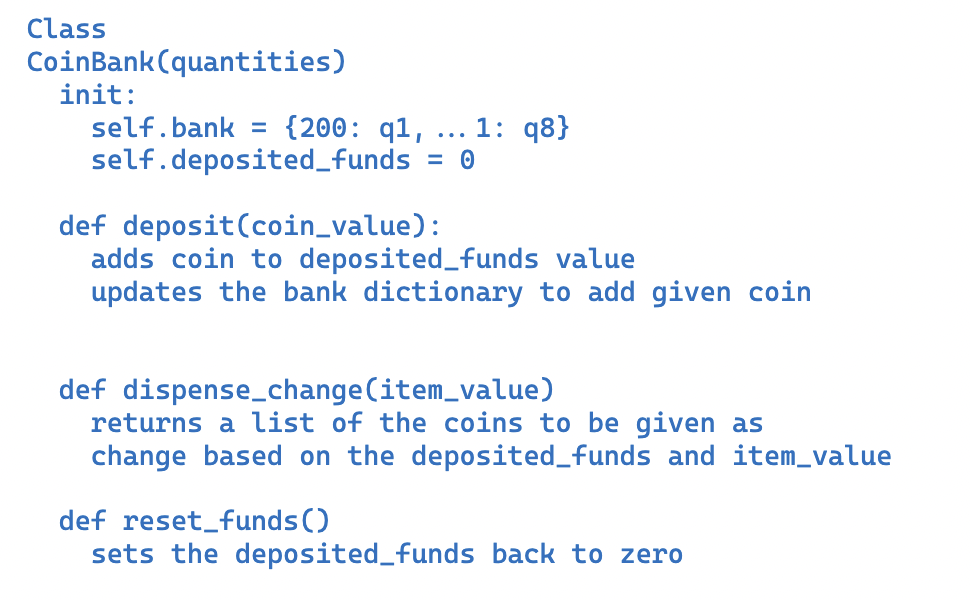
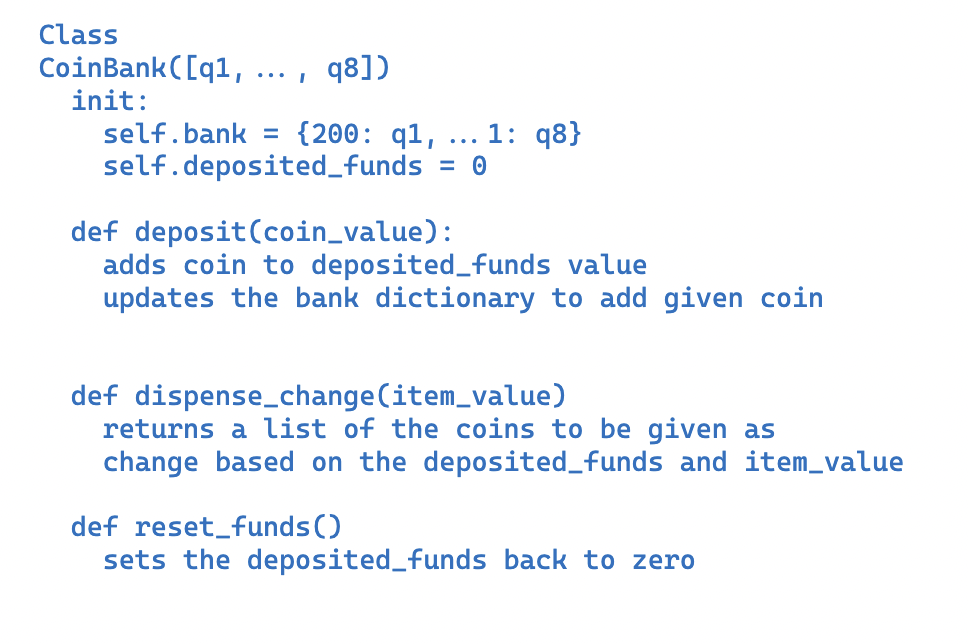
adding testing to readme

diff --git a/README.md b/README.md
@@ -4,14 +4,15 @@
 This API is to be used in conjunction with vending machine software in order to track the coins inside the machine. It is to be set initially with the quantities of each coin denomination which are loaded into the machine and will then update these quantities as the user makes deposits and purchases.
 
 ## Design
-My prrogram structure includes just one class, since we are only handling the behaviour change of the quantities of coins inside the machine. This is all kept inside the CoinBank class.
-Instances of CoinBank are initialised with a list of quantities of coin denominations (£2, £1, 50p, 20p, 10p, 5p, 2p, 1p) and also the value of coins deposited by a user. So the input parameter is a python list with 8 integers, and the deposited funds is initially set to zero. The coins inside the machine are stored in a class variable called self.bank, which is a dictionary with coin values (in pence) as keys and their quantities as values. This allows us to handily keep track of and update the quantity of each denomination and also use their monetary value for calculations. Below is an initial plan of the class definition:
+My program structure includes just one class, since we are only handling the behaviour of changing quantities of coins inside the machine. This is all kept inside the CoinBank class.
+Instances of CoinBank are initialised with a list of quantities of coin denominations (£2 ... 1p) and also the value of coins deposited by a user.
+So the input parameter is a python list with 8 integers, and the deposited funds is initially set to zero. The coins inside the machine are stored in a class variable called self.bank, which is a dictionary with coin values (in pence) as keys and their quantities as values. This allows us to handily keep track of and update the quantity of each denomination and also use their monetary value for calculations. Below is an initial plan of the class definition:
 
-![Screenshot of initial class design](./images/screenshot-class-design.png)
+![Screenshot of initial class design](./images/screenshot-class-sesign.png)
 
 There are three main methods on the CoinBank class:
 
-**deposit:** This method allows users to deposit coins, one by one, into the machine and they will be added to the coin bank. I've made the assumption that coins the user deposits are available for the machine to dispense as change, so the method updates the bank dictionary.
+**deposit:** This method allows users to deposit coins, one by one, into the machine and they are be added to the coin bank. The bank dictionary is therefore updated based on the coin which is passed into this method as a parameter.
 
 **dispense_change:** This method takes one parameter (the item's value to be purchased) and calculates the coins required as change based on the current funds deposited and the coin quantities in the bank dictionary. The bank dictionary is updated as required (coins returned as change are removed from the bank) and the method returns a list of the coins to be given to a user.
 
@@ -21,7 +22,8 @@ There are three main methods on the CoinBank class:
 These decisions have been made when implementing the API:
 - I have used pence for the coin values (i.e £1 = 100, 50p = 50) to remove all risk of float rounding errors in calculations.
 - I have only allowed the deposit method to take one parameter (i.e, one coin) since the vending machine will only have one coin inputted at a time.
-- I have kept reset_funds in a seperate method in order to ensure that dispense_change *only* handles the behaviour of finding the change. We could also imagine a scenario in which the funds are incorrect due to a fault with another part of the vending machine, and it must be reset back to zero manually.
+- Based on the given requirements (the program must 'register coins that have been deposited'), I've made the assumption that coins the user deposits are available for the machine to dispense as change, as opposed to just going into a seperate pile of change in the machine.
+- I have kept reset_funds in a seperate method in order to ensure that dispense_change *only* handles the behaviour of finding the change (and not returning funds to zero). We could also imagine a scenario in which the funds are incorrect due to a fault with another part of the vending machine, and it must be reset back to zero manually.
 - The deposited funds is just stored as the total value of coins deposited so far, since for this exercise we only require the total value in order to calculate the change.
 - The dispense_change return value is a list of the coin values, as this can be easily iterated through in another part of the software in order to tell the machine which coins to remove from the machine.
 
@@ -70,4 +72,28 @@ print(change)
 coin_bank.reset_funds()
 print(coin_bank.deposited_funds)
 # --> 0
+```
+
+### Testing
+#### Interactive playground
+In order to test the behaviour of my code, you can run the command line application in order to view te coins in the bank, make deposits and purchases and see the change that will be returned.
+Run it as follows:
+```bash
+cd vending-machine-challenge
+python3 dev_test_app.py
+```
+And you'll see the following instructions:
+<br>
+
+![Screenshot of test harness](./images/screenshot-test-harness.png)
+
+<br>
+Now enter peek, deposit or purchase in order to interact with the code.
+
+#### Pytest
+I have written tests in order to ensure the behaviour of the API works as expected. These can be found in the tests/test_coin_bank.py file.
+In order to run these tests, use pipenv and run:
+```bash
+cd vending-machine-challenge
+pipenv run pytest
 ```
